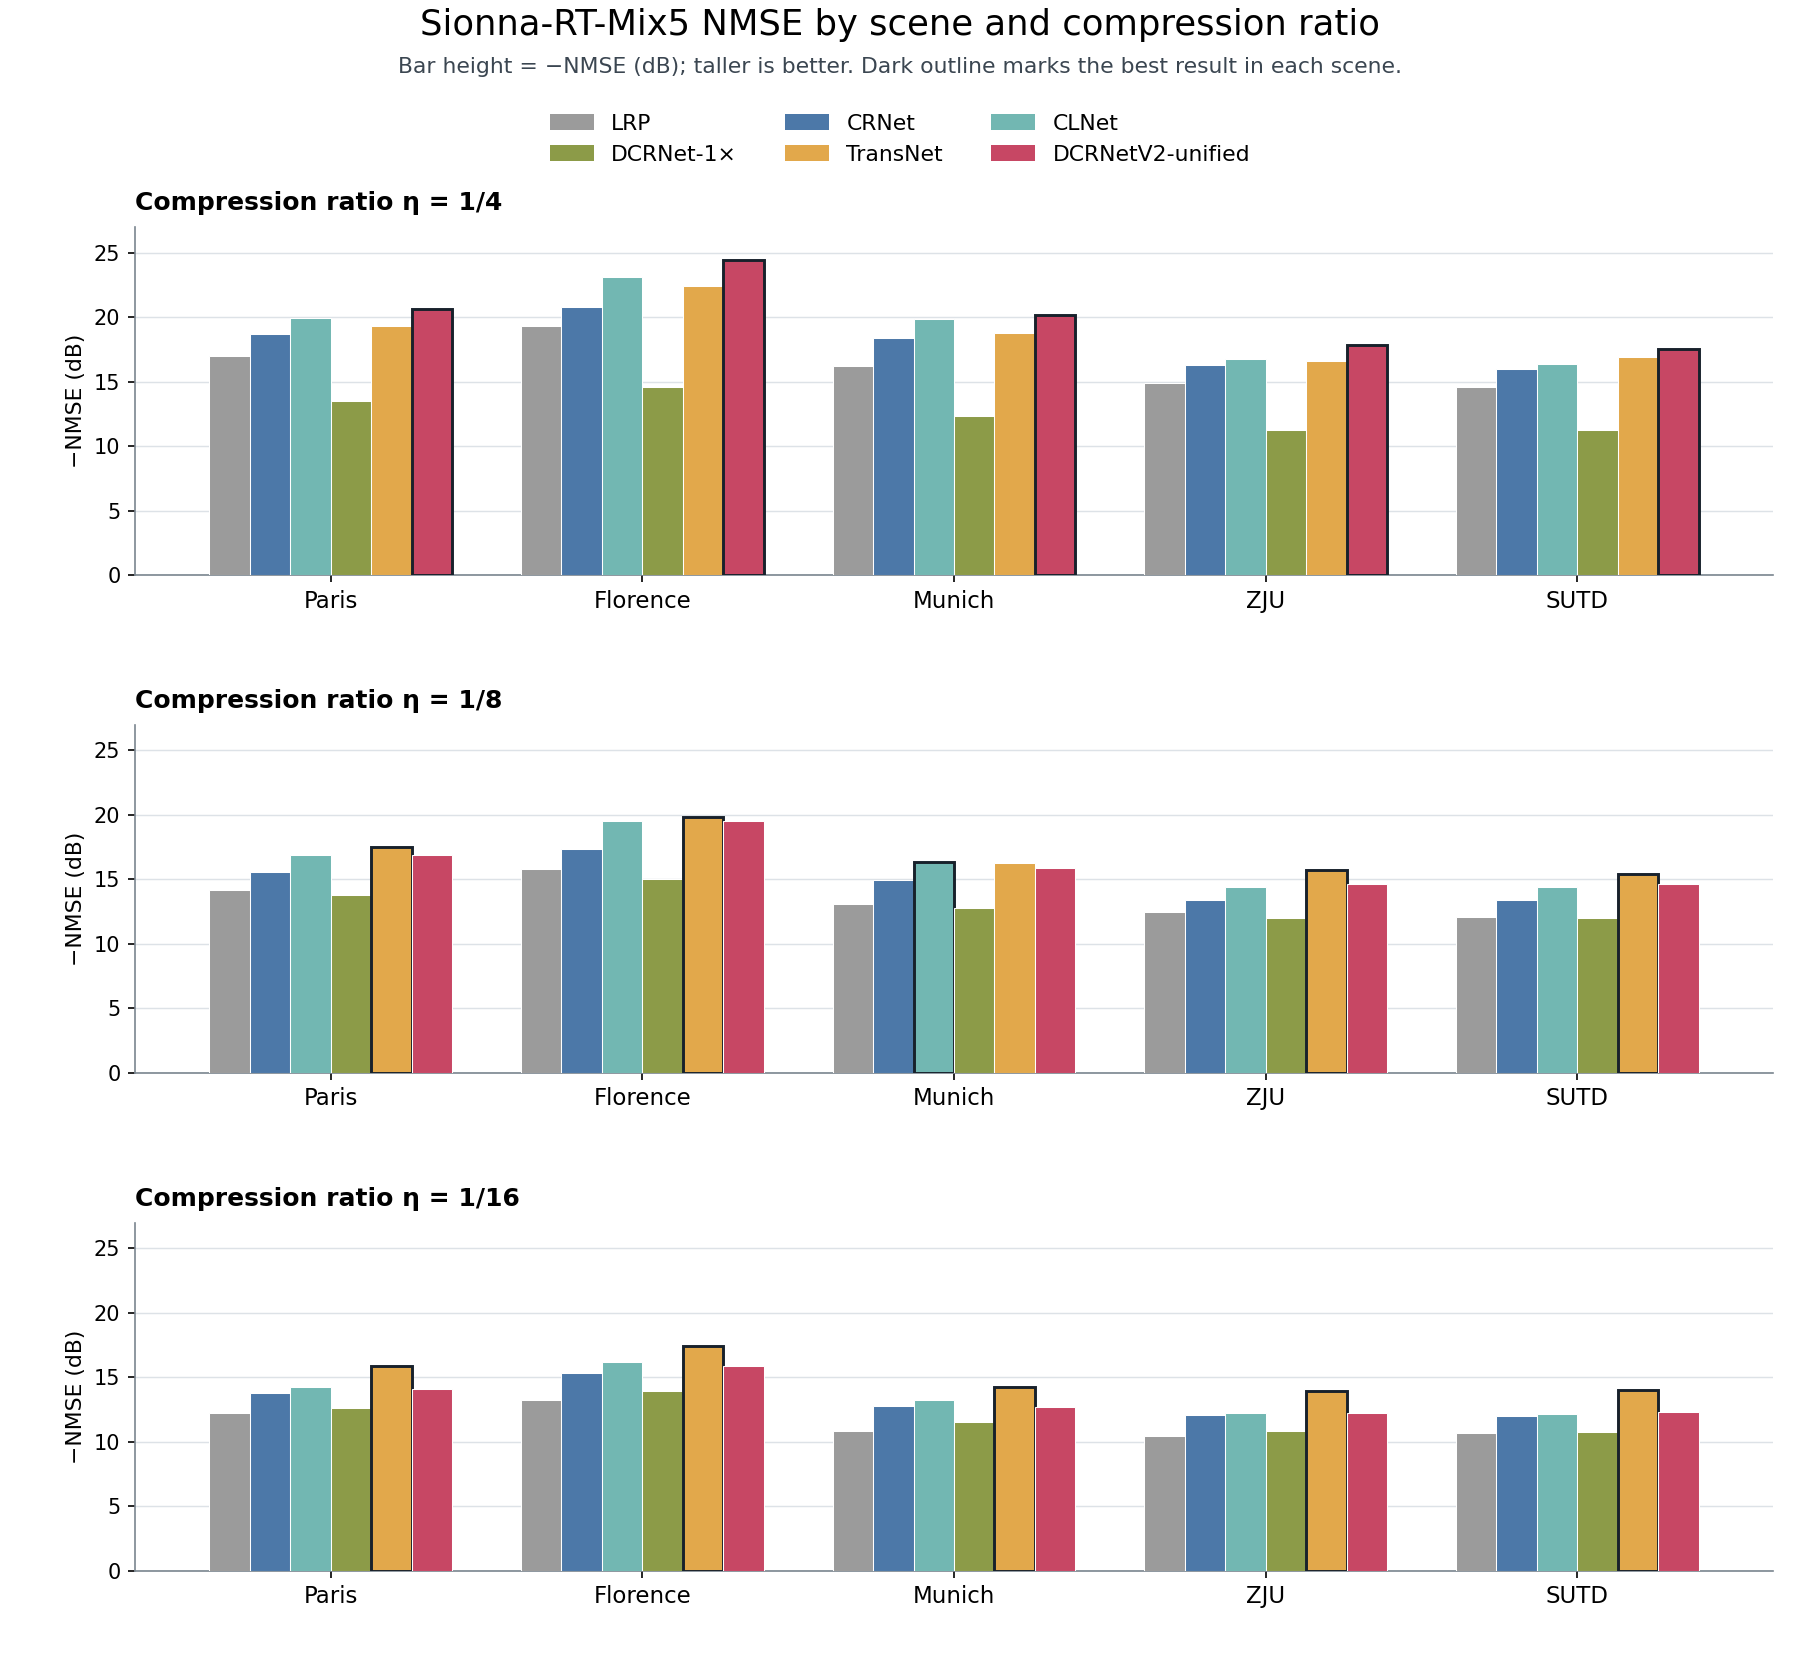
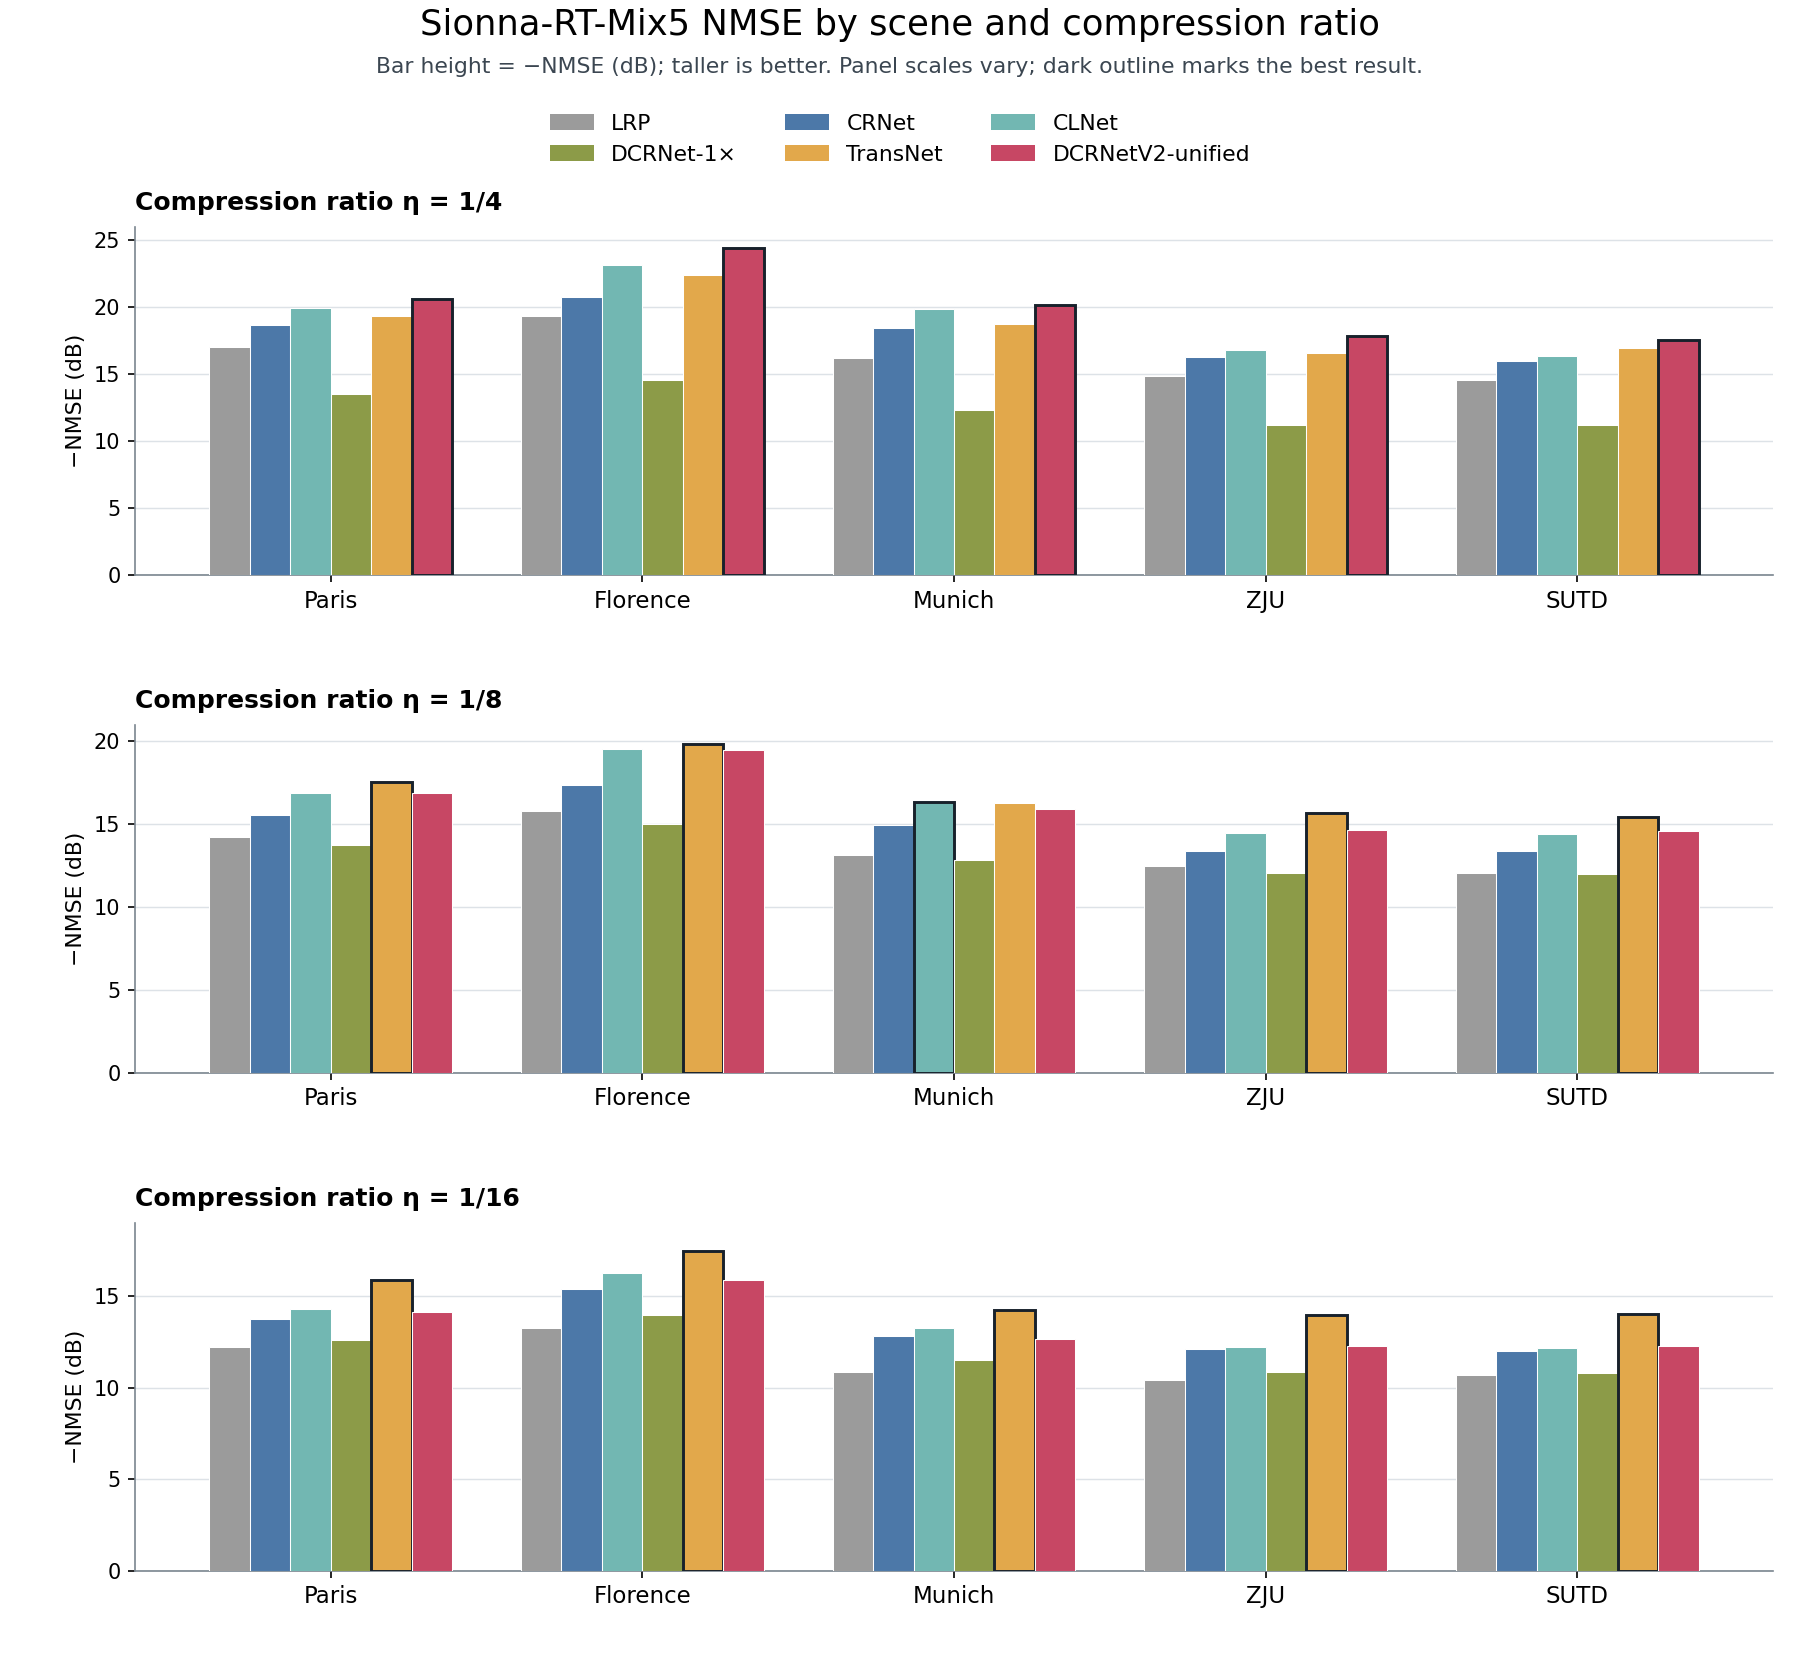
Tighten NMSE chart axes by compression ratio

diff --git a/src/rt_csi/plot_results.py b/src/rt_csi/plot_results.py
@@ -54,24 +54,26 @@ def main(argv: list[str] | None = None) -> None:
     args = parser.parse_args(argv)
     results = read_results(args.csv)
 
-    fig, axes = plt.subplots(3, 1, figsize=(12.0, 11.2), sharey=True)
+    fig, axes = plt.subplots(3, 1, figsize=(12.0, 11.2))
     fig.patch.set_facecolor("white")
     fig.suptitle("Sionna-RT-Mix5 NMSE by scene and compression ratio",
                  fontsize=17, y=0.995)
     fig.text(0.5, 0.966,
-             "Bar height = −NMSE (dB); taller is better. Dark outline marks the best result in each scene.",
+             "Bar height = −NMSE (dB); taller is better. Panel scales vary; dark outline marks the best result.",
              ha="center", va="top", fontsize=10.5, color="#3B4651")
 
     x = np.arange(len(SCENES))
     width = 0.13
     offset = (len(METHODS) - 1) * width / 2
     for ax, (ratio_label, ratio_key) in zip(axes, RATIOS):
+        panel_max = 0.0
         best = {
             scene: min(METHODS, key=lambda method: results[method[0]][f"{scene}_{ratio_key}"])[0]
             for _, scene in SCENES
         }
         for method_index, (name, _, color) in enumerate(METHODS):
             heights = [-results[name][f"{scene}_{ratio_key}"] for _, scene in SCENES]
+            panel_max = max(panel_max, *heights)
             edgecolors = ["#18212B" if best[scene] == name else "white"
                           for _, scene in SCENES]
             linewidths = [1.4 if best[scene] == name else 0.5
@@ -82,8 +84,9 @@ def main(argv: list[str] | None = None) -> None:
         ax.set_title(f"Compression ratio η = {ratio_label}", loc="left",
                      fontsize=12, fontweight="semibold", pad=8)
         ax.set_xticks(x, [label for label, _ in SCENES], fontsize=11)
-        ax.set_ylim(0, 27)
-        ax.set_yticks((0, 5, 10, 15, 20, 25))
+        y_limit = int(np.ceil(panel_max + 1))
+        ax.set_ylim(0, y_limit)
+        ax.set_yticks(np.arange(0, y_limit + 1, 5))
         ax.set_ylabel("−NMSE (dB)", fontsize=10.5)
         ax.grid(axis="y", color="#DDE2E7", linewidth=0.7, zorder=0)
         ax.set_axisbelow(True)

diff --git a/README.md b/README.md
@@ -95,7 +95,8 @@ absolute received power across scenes. Regenerate the figure with
 The manuscript reports the following per-scene test NMSE after training each
 method on the five-scene Mix5 training set. The bars show **−NMSE**, so a taller
 bar corresponds to a lower (better) NMSE in dB. A dark outline marks the best
-method for each scene and compression ratio.
+method for each scene and compression ratio. Every panel starts at zero but
+uses its own y-axis maximum; read the tick marks when comparing ratios.
 
 ![Grouped bar chart of six methods across five Mix5 scenes at compression ratios 1/4, 1/8, and 1/16.](assets/mix5_nmse_bars.png)
 
